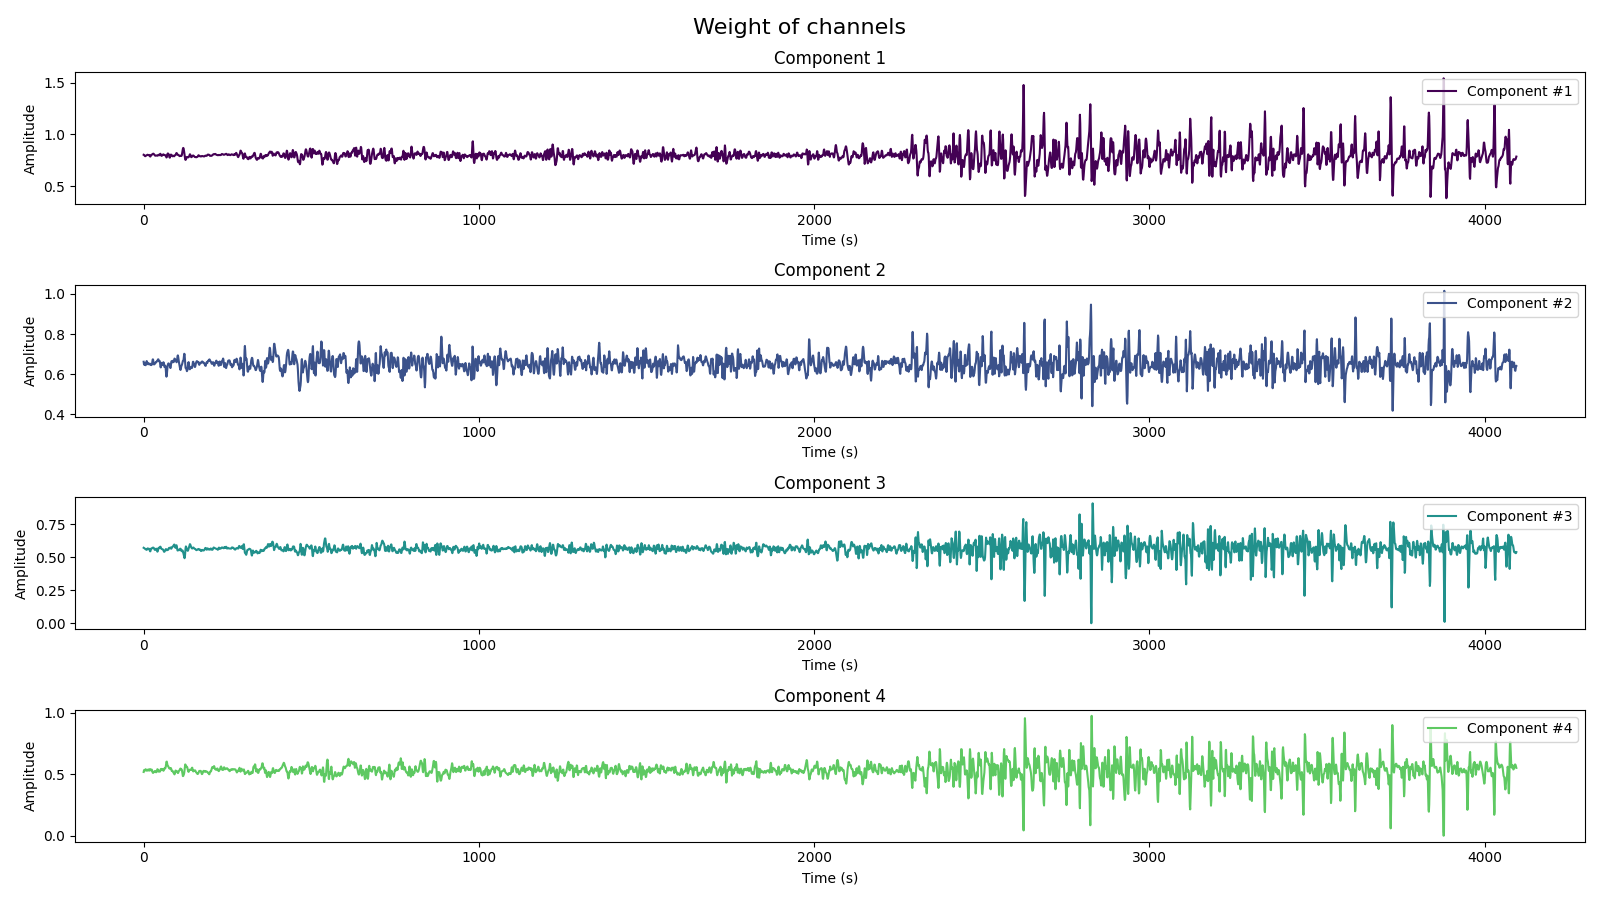
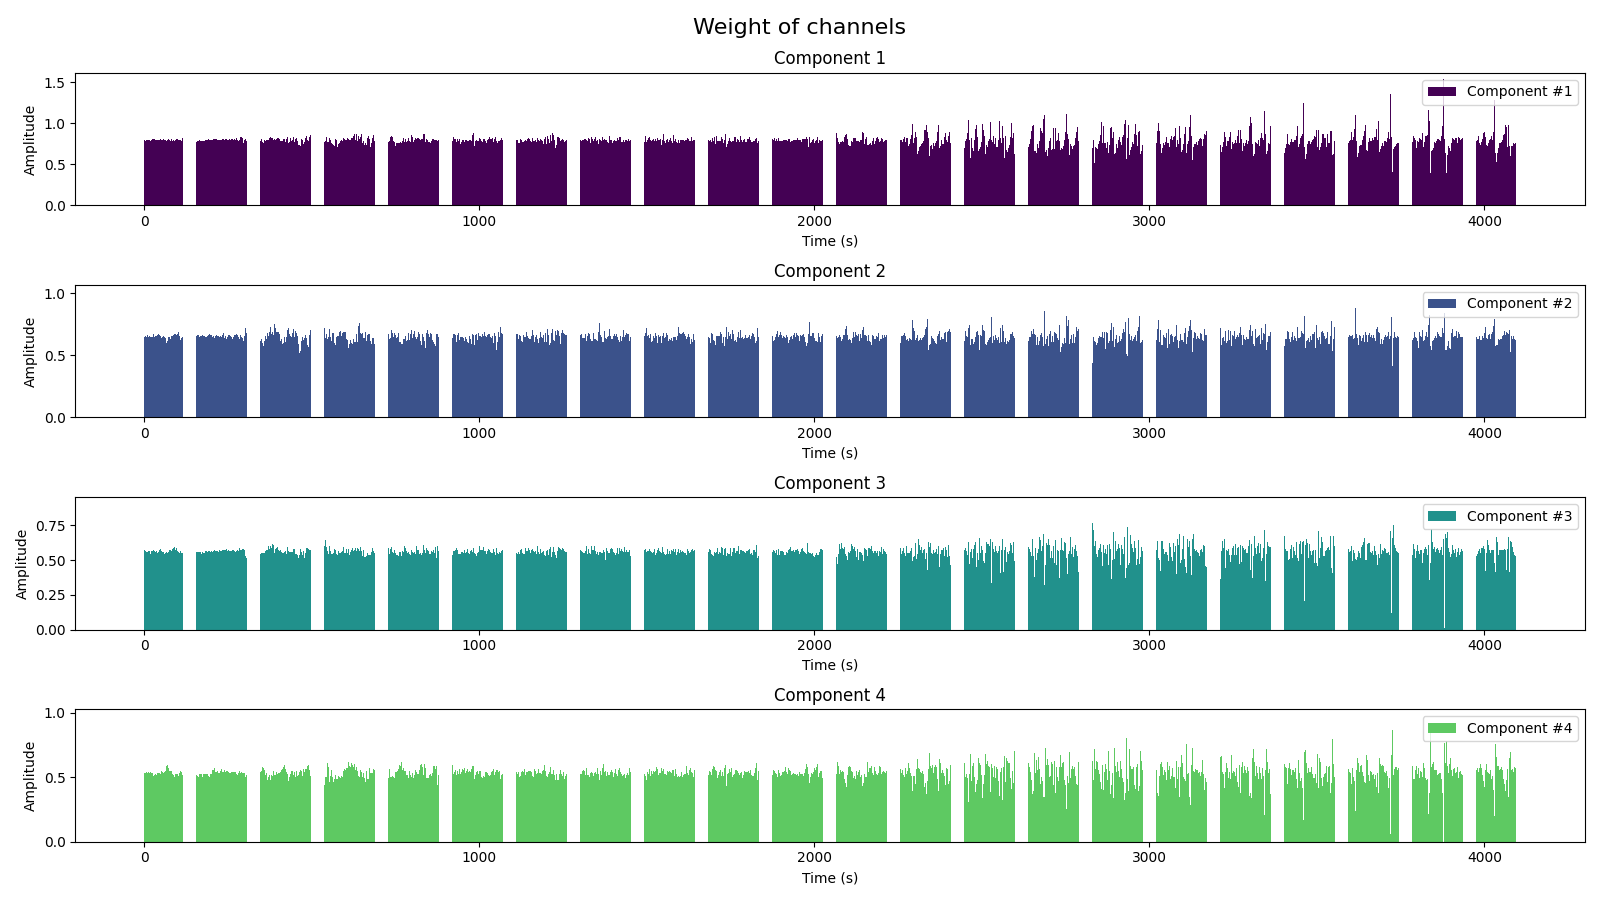
update

diff --git a/MuscleSynergies.py b/MuscleSynergies.py
@@ -228,7 +228,7 @@ def plot_W(W, save=False, file_name = None):
     plt.suptitle("Weight of channels", fontsize=16)
     for i in range (W.shape[1]):
         plt.subplot(W.shape[1],1,i+1)
-        plt.plot(W[:, i], label = f"Component #{i+1}", color = plt.cm.viridis(i/W.shape[1]))
+        plt.bar(range(W.shape[0]), W[:, i], label=f"Component #{i+1}", color=plt.cm.viridis(i/W.shape[1]))
         plt.title(f"Component {i+1}")
         plt.xlabel('Time (s)')
         plt.ylabel('Amplitude')
@@ -342,7 +342,7 @@ if __name__ == "__main__":
     plt.xlabel('Time (s)')
     plt.ylabel('Amplitude')
     plt.legend(loc='upper right')
-    plt.savefig('origin_vs_reconstructed.png')
+    # plt.savefig('origin_vs_reconstructed.png')
     plt.show()
 
         

diff --git a/motounitDecomposition.py b/motounitDecomposition.py
@@ -292,7 +292,7 @@ def plot_STA_all_channels(emg_data, sta_dict, save=False, filename='sta_all_chan
     n_rows_total = 13
     n_cols_total = 5
 
-    plt.figure(figsize=(20, 30))
+    plt.figure(figsize=(10, 10))
 
     for i in range(len(emg_data)):
         # 计算当前子图的行和列（从右到左，列优先）
